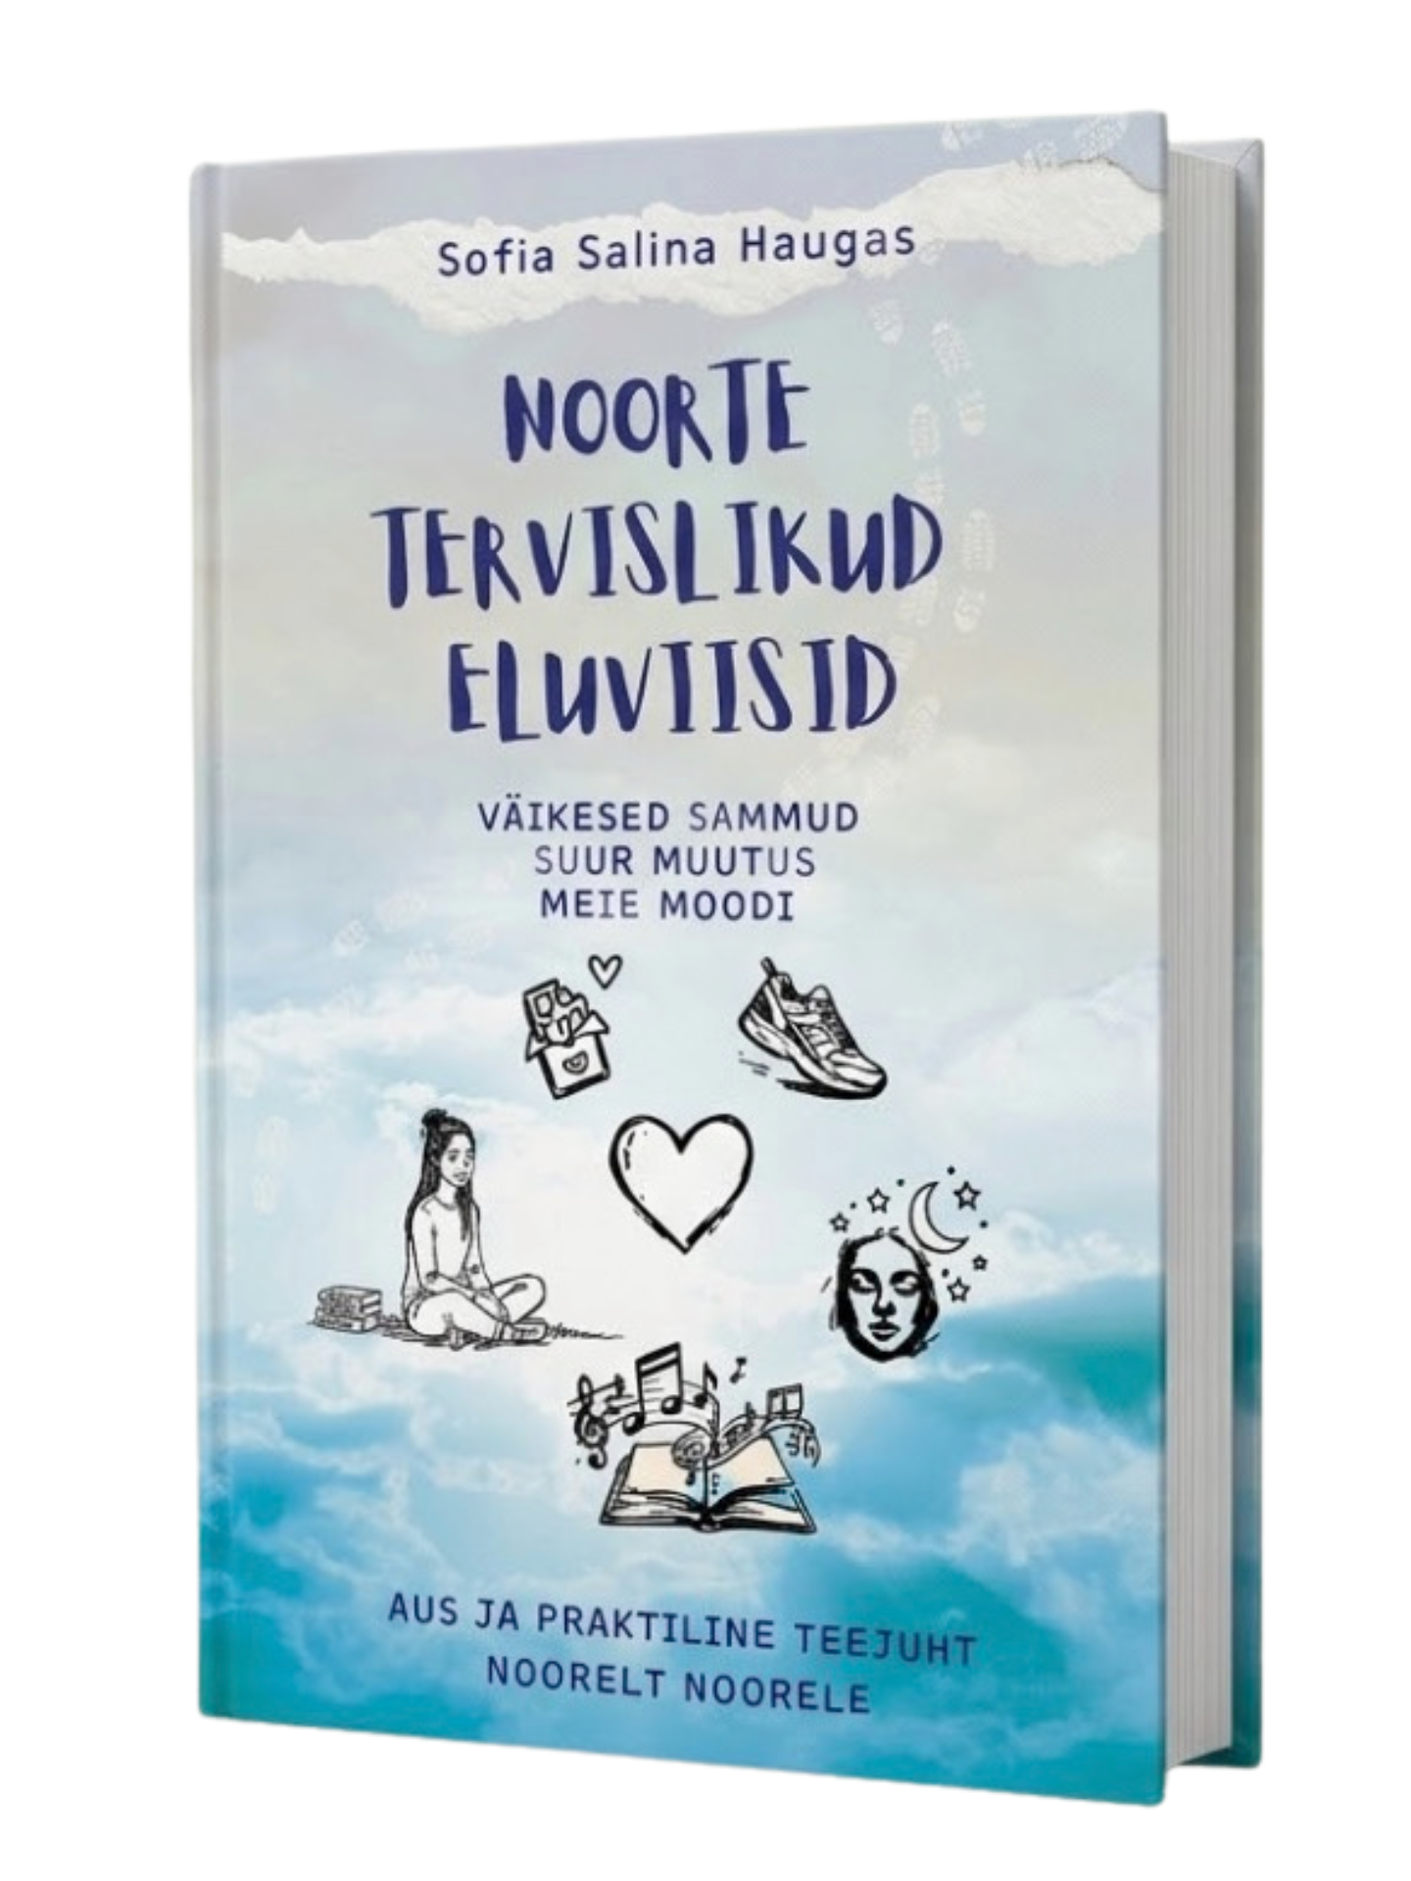
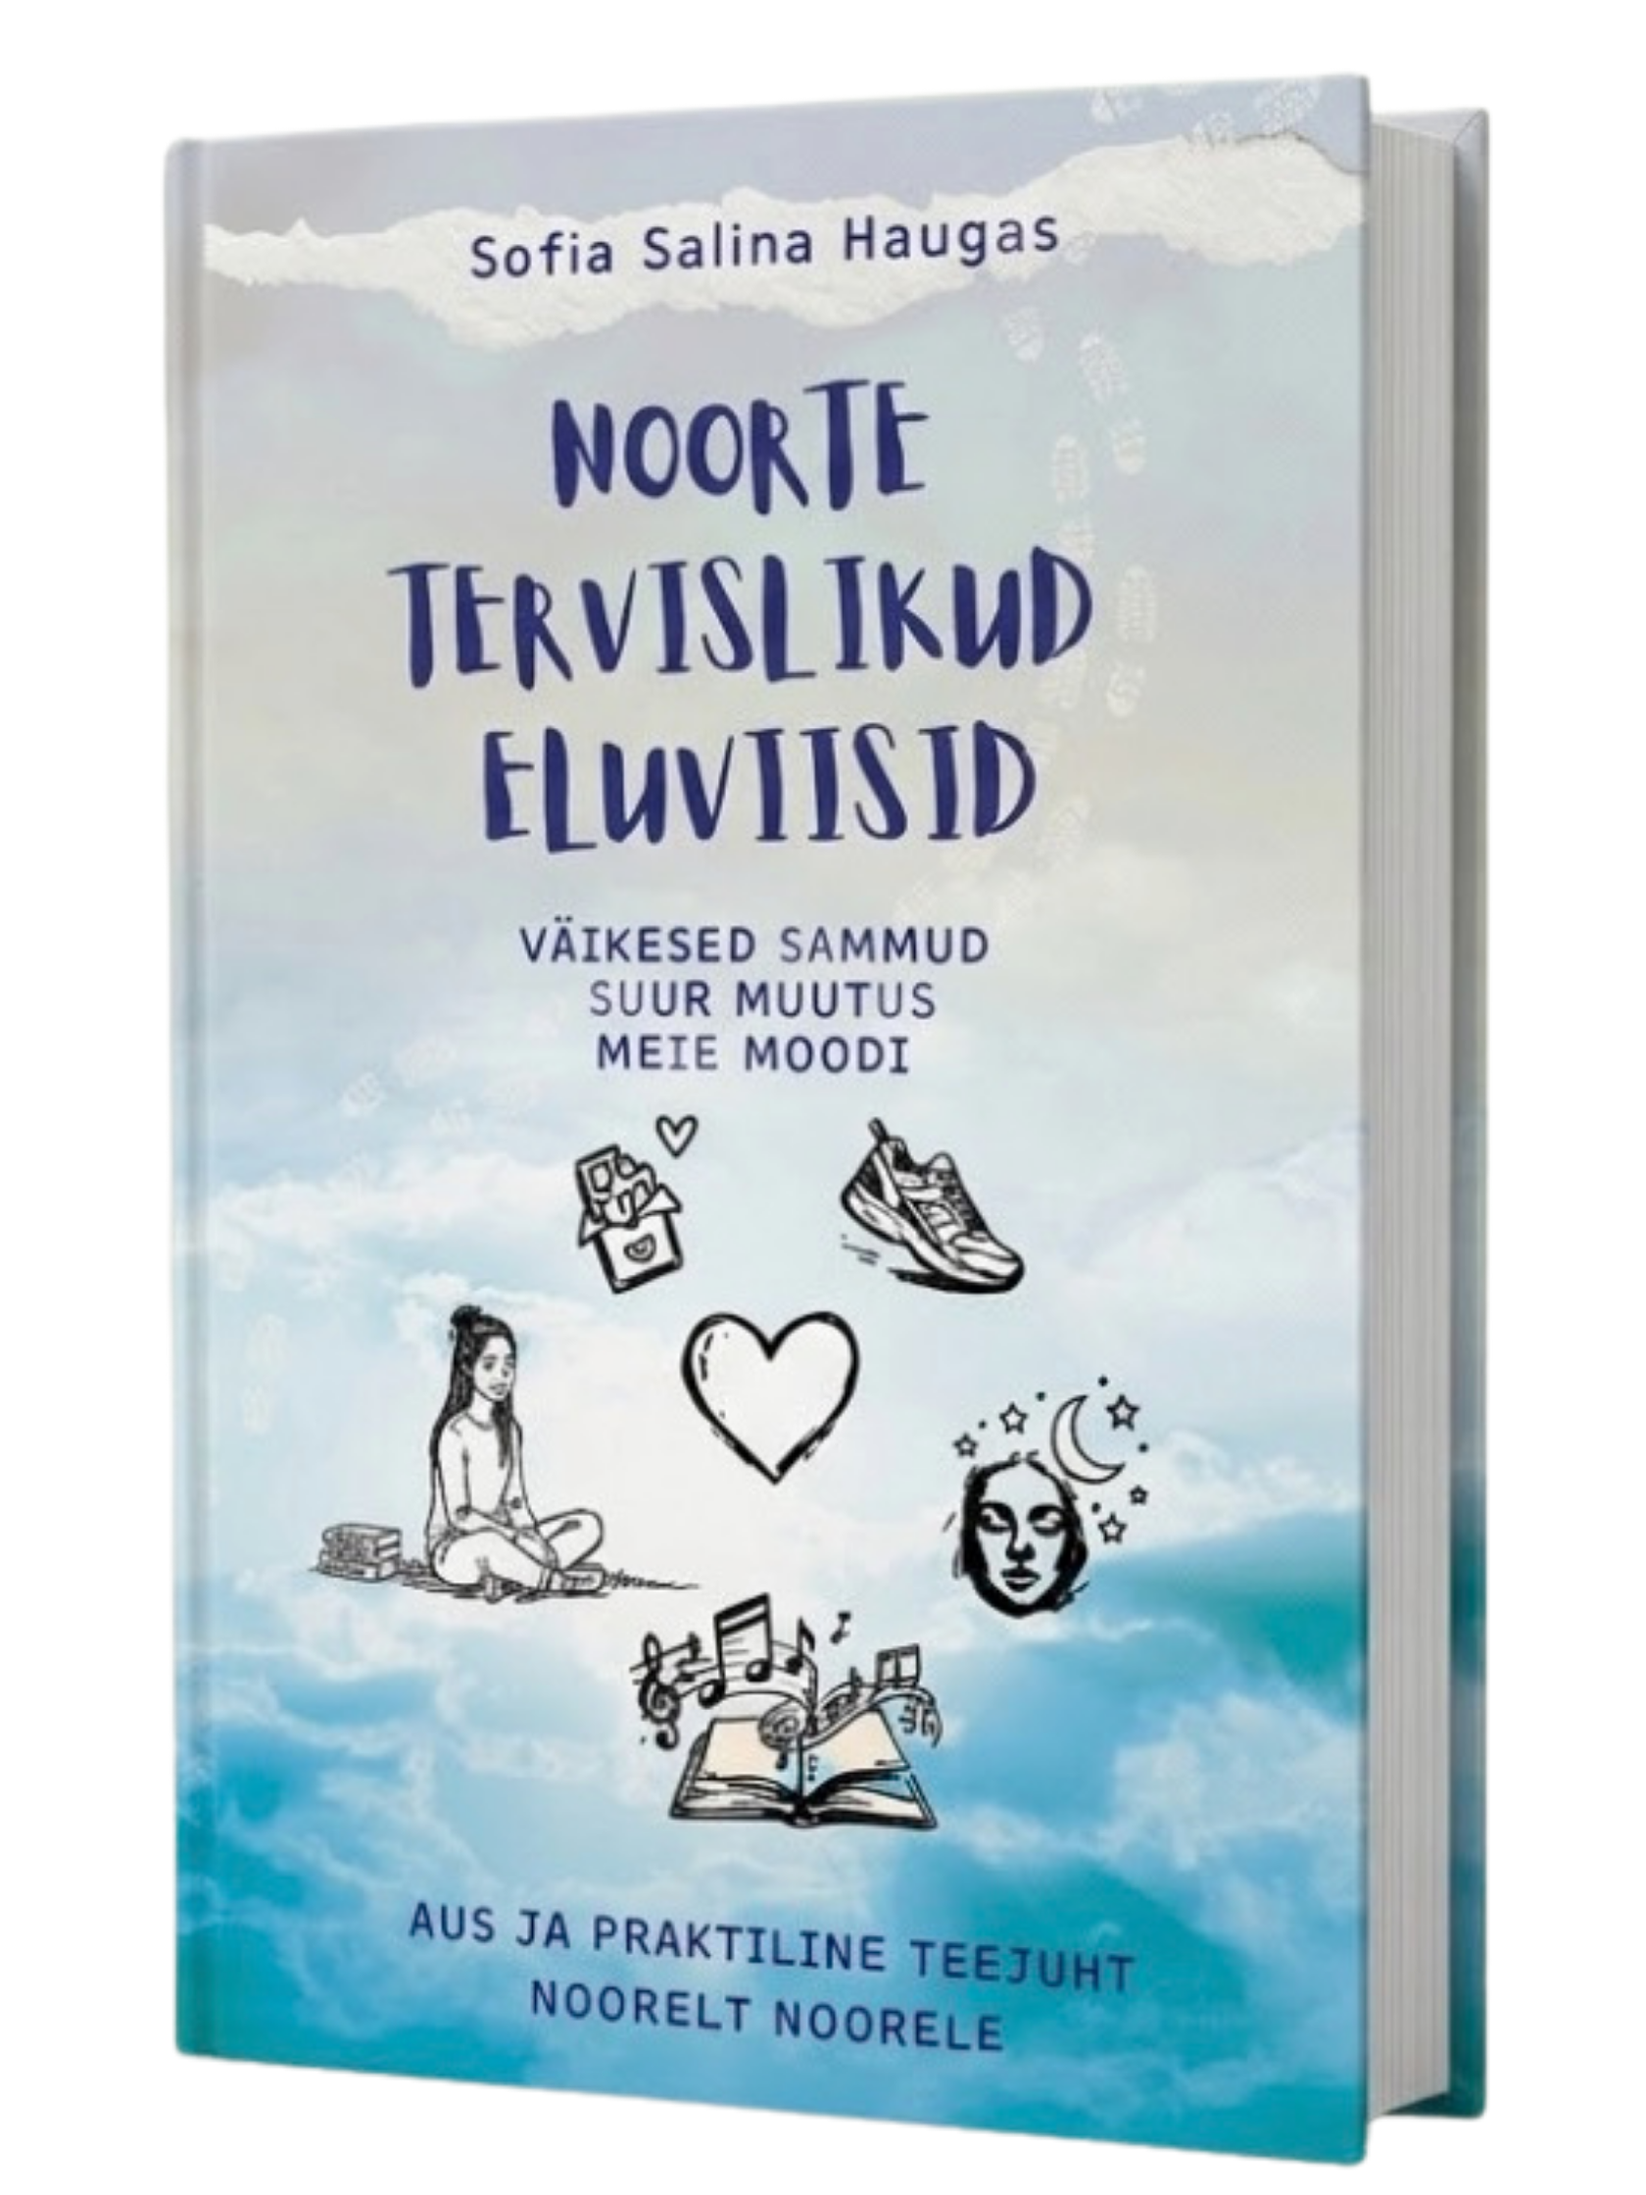
Larger book cover with transparent background, remove rounded corners

Changed region(s): [[0.0938, 0.0312, 0.9062, 1.0]]

diff --git a/app/[lang]/page.tsx b/app/[lang]/page.tsx
@@ -48,8 +48,8 @@ export default async function HomePage({ params }: Props) {
           <div className="flex justify-center">
             <div className="relative">
               <div className="relative group">
-                <Image src="/images/noorte_tervislikud_eluviisid_raamat.png" alt="Raamatu kaas" width={280} height={420}
-                  className="rounded-lg shadow-book group-hover:-translate-y-2 group-hover:rotate-1 transition-transform duration-500" />
+                <Image src="/images/noorte_tervislikud_eluviisid_raamat.png" alt="Raamatu kaas" width={340} height={510}
+                  className="group-hover:-translate-y-2 group-hover:rotate-1 transition-transform duration-500" />
                 <Image src="/images/doodles/star.svg"  alt="" width={36} height={36} className="absolute -top-7 -right-3 float float-delay-1" />
                 <Image src="/images/doodles/heart.svg" alt="" width={32} height={32} className="absolute bottom-8 -left-7 float float-delay-2" />
                 <Image src="/images/doodles/moon.svg"  alt="" width={34} height={34} className="absolute top-1/2 -right-10 float float-delay-3" />
